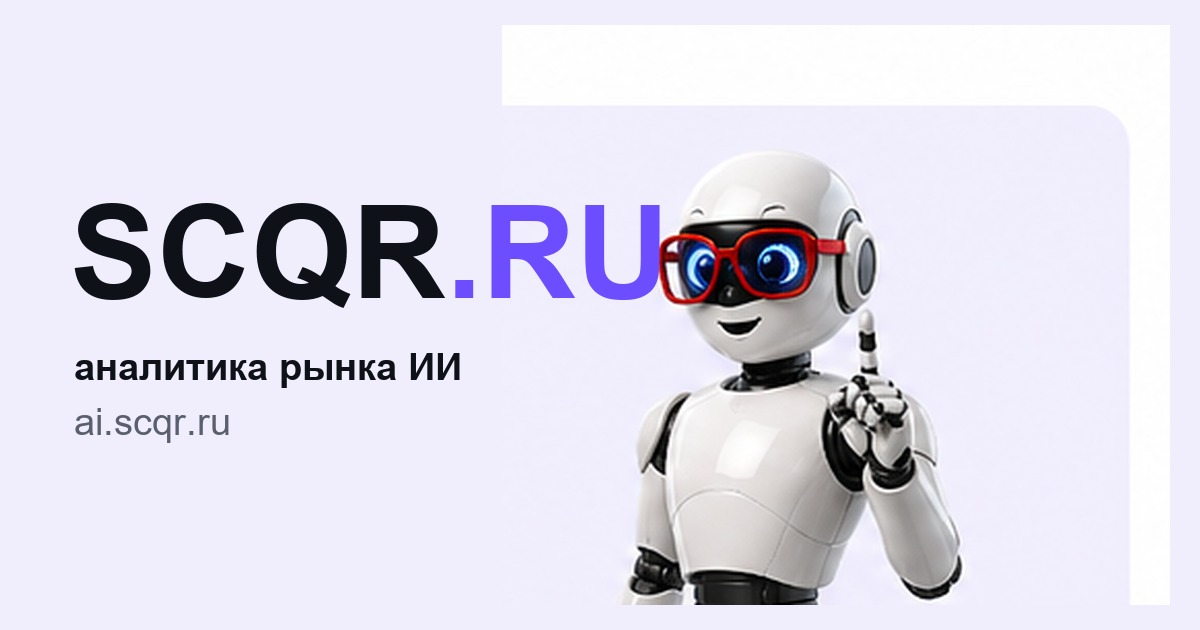
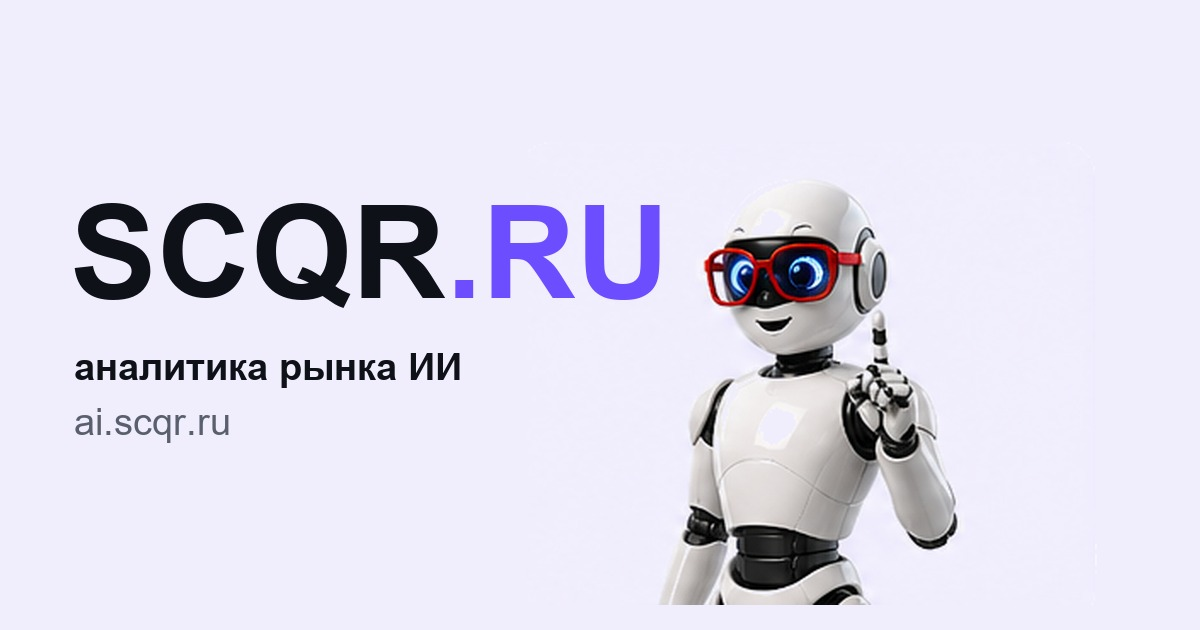
post: heroes, clean Russian, longer TG teaser format
Three changes that landed together because they all flow from
the owner's editorial review on the midday batch:

1. Hero images for both articles. Owner generated them in
   ChatGPT from the visual briefs and dropped the PNGs.
   site/src/assets/editorial/contributed/2026-04-25-midday/
   contains both — Claude Design (lilac, mascot pointing at
   the Claude Design UI) and NVIDIA Hannover (dark, layered
   stack visualization with CUDA-X / Nemotron / DGX Cloud).
   Frontmatter heroSource flipped from "generated" to
   "user-supplied", heroImage path added.

2. Drop anglicisms across both pieces. Owner: «ненужные
   англицизмы не нужны ни в статьях, ни тем более в ТГ».
   Examples: коммодити-сегмент → массовый, тиражный сегмент;
   self-service → самообслуживание; handoff-bundle → пакет
   для передачи; пиксел-пушинг → быстрая шаблонная отрисовка;
   POC → опытный образец; стек → технологическая связка
   (kept as a noun phrase where клarity wins); unit economics
   → прибыльность операции; продакшен → боевой режим. Single
   exception kept: model and product names (Opus 4.7,
   Omniverse, Jetson Thor) — those are proper nouns.

3. New TG-post format. Adds optional `tgTeaser` frontmatter
   field — a paragraph of rhetorical questions that hint at
   what the article answers without spoiling the conclusion.
   tg-post.mjs builds: title + meta + deck + teaser + a
   single neutral link line (Разбираемся: читать на SCQR),
   not the previous "Читать на SCQR →" begging tone.
[…]

Changed region(s): [[0.5242, 0.2413, 0.8017, 0.9651]]

diff --git a/site/src/content.config.ts b/site/src/content.config.ts
@@ -25,6 +25,7 @@ const posts = defineCollection({
 			editorialFlags: z.array(z.string()).default([]),
 			storyCluster: z.string().optional(),
 			sourceNote: z.string().optional(),
+			tgTeaser: z.string().optional(),
 			readingTime: z.number().optional(),
 			publicUrl: z.string().optional(),
 			heroAlt: z.string(),

diff --git a/site/src/content/posts/2026-04-25-nvidia-na-hannover-messe-stek-sobran.md b/site/src/content/posts/2026-04-25-nvidia-na-hannover-messe-stek-sobran.md
@@ -1,8 +1,9 @@
 ---
-title: "NVIDIA на Hannover Messe собрала стек роботов раньше, чем сами роботы"
-description: "На Hannover Messe NVIDIA с партнёрами показала единую архитектуру для физического AI: CUDA-X, Omniverse, Nemotron, Industrial AI Cloud. Демонстрации гуманоидов и автономных ячеек — ещё POC, но стек выглядит готовым раньше, чем продукты на нём."
-deck: "NVIDIA с партнёрами показала на Hannover Messe архитектуру промышленного «физического AI»: Omniverse, CUDA-X, Nemotron под общим зонтиком. На стендах демонстрируют гуманоидов и автономные ячейки. Стек выглядит готовым раньше, чем продукты на нём."
-scqrVerdict: "Стартует не «эпоха роботов», а отрасль разработки физического AI как отдельная категория со своим стеком, поставщиками и капитальной структурой."
+title: "NVIDIA на Hannover Messe собрала технологическую связку для роботов раньше, чем самих роботов"
+description: "На Hannover Messe NVIDIA с партнёрами показала единую архитектуру для физического искусственного интеллекта: CUDA-X, Omniverse, Nemotron, Industrial AI Cloud. Демонстрации гуманоидов и автономных ячеек — пока опытные образцы, но связка готова раньше, чем продукты на ней."
+deck: "NVIDIA с партнёрами показала на Hannover Messe архитектуру промышленного физического искусственного интеллекта: Omniverse, CUDA-X, Nemotron под общим зонтиком. На стендах демонстрируют гуманоидов и автономные ячейки. Связка выглядит готовой раньше, чем продукты на ней."
+scqrVerdict: "Стартует не «эпоха роботов», а отрасль разработки физического искусственного интеллекта как отдельная категория со своей технологической связкой, поставщиками и капитальной структурой."
+tgTeaser: "Станет ли эта презентация шагом к реальному старту глобальной автоматизации, или продукты на новой связке всё ещё опытные образцы и до боевого режима ещё годы? Накопились ли уже предпосылки — или рынок берёт инфраструктуру в долг под обещание?"
 pubDate: "2026-04-25T18:00:00"
 articleType: "analysis"
 stage: "midday-2026-04-25"
@@ -13,19 +14,20 @@ topics: ["NVIDIA", "Hannover Messe", "робототехника", "гумано
 editorialFlags: []
 readingTime: 4
 publicUrl: "/2026-04-25-nvidia-na-hannover-messe-stek-sobran/"
-heroAlt: "Промышленный павильон Hannover Messe: гуманоид у сборочного стенда, на фоне — экран с симуляцией Omniverse."
+heroAlt: "Слоистая визуализация связки NVIDIA: CUDA-X, Nemotron, DGX Cloud — и сцена с роботом-манипулятором поверх в Omniverse."
 heroStyle: "documentary_frame"
-heroSource: "generated"
+heroSource: "user-supplied"
+heroImage: ../../assets/editorial/contributed/2026-04-25-midday/2026-04-25-nvidia-hannover-editorial.png
 ---
 
-В Ганновере 20–24 апреля прошла Messe — главная промышленная выставка Европы. NVIDIA вышла туда не с одним демо, а с полной архитектурной картиной: CUDA-X на компьюте, AI physics для моделирования, Omniverse как симуляционный слой, открытые модели Nemotron сверху. К ней подошли Cadence, Dassault Systèmes, Siemens, Synopsys. Deutsche Telekom запустил «Industrial AI Cloud» — крупнейшую AI-фабрику в Европе на инфраструктуре NVIDIA, открытую для индустриальных клиентов: Agile Robots, SAP, Siemens, PhysicsX, Wandelbots.
+В Ганновере 20–24 апреля прошла Messe — главная промышленная выставка Европы. NVIDIA вышла туда не с одним образцом, а с полной архитектурной картиной: CUDA-X на вычислениях, физический движок для моделирования, Omniverse как симуляционный слой, открытые модели Nemotron сверху. К ней подошли Cadence, Dassault Systèmes, Siemens, Synopsys. Deutsche Telekom запустил Industrial AI Cloud — крупнейшую в Европе фабрику искусственного интеллекта на инфраструктуре NVIDIA, открытую для промышленных клиентов: Agile Robots, SAP, Siemens, PhysicsX, Wandelbots.
 
-Поверх стека — демонстрации того, как агенты управляют физикой. На электронной фабрике Siemens в Эрлангене гуманоид HMND 01 от компании Humanoid выполнил автономную логистическую POC на чипах Jetson Thor. Hexagon Robotics анонсировала систему AEON, которая «должна» (будущее время) выполнять сборку на заводе BMW в Лейпциге. Agile Robots привезла Agile One — гуманоида с продвинутой локомоцией и точной сборкой в микро-фабрике, в Hall 27, стенд J72. Всего около 15 вендоров гуманоидов соревнуются за внимание промышленных закупщиков.
+Поверх этой связки — демонстрации того, как программные агенты управляют физикой. На электронной фабрике Siemens в Эрлангене гуманоид HMND 01 от компании Humanoid выполнил автономную логистическую задачу в режиме опытной проверки на чипах Jetson Thor. Hexagon Robotics показала систему AEON, которая «должна» (будущее время) выполнять сборку на заводе BMW в Лейпциге. Agile Robots привезла Agile One — гуманоида с продвинутым перемещением и точной сборкой в миниатюрной ячейке, в павильоне 27, стенд J72. Всего около пятнадцати производителей гуманоидов борются за внимание промышленных закупщиков.
 
-Развилка, которую NVIDIA фактически показала, выглядит так. Стек для разработки промышленных физических агентов — почти готов. Это не «когда-нибудь»: компонент за компонентом — симуляция, обучение, edge-исполнение, набор открытых моделей — собираются в воспроизводимую цепочку. Deutsche Telekom как партнёр инфраструктуры — сильный сигнал: суверенный европейский AI-фабричный слой строится не «для будущего», а под уже сложившийся спрос.
+Развилка, которую NVIDIA фактически показала, выглядит так. Связка для разработки промышленных физических агентов — почти готова. Это не «когда-нибудь»: компонент за компонентом — моделирование, обучение, исполнение на месте, набор открытых моделей — собираются в воспроизводимую цепочку. Deutsche Telekom как партнёр инфраструктуры — сильный сигнал: суверенный европейский слой фабрик искусственного интеллекта строится не «для будущего», а под уже сложившийся спрос.
 
-Продукты на этом стеке — пока POC. «Proof-of-concept logistics deployment» — это формулировка из релиза NVIDIA про лучший показанный кейс. AEON «expected to perform» — будущее время в пресс-релизе означает, что в продакшен на BMW Лейпциг ещё не вышел. Пятнадцать вендоров гуманоидов означает, что рынок не консолидирован: ни один не доказал unit economics, ни у кого нет очевидно превосходящей модели.
+Продукты на этой связке — пока опытные образцы. «Опытная логистическая поставка» — это формулировка из релиза NVIDIA про лучший показанный кейс. AEON «должна выполнять» в пресс-релизе означает, что в боевом режиме на BMW Лейпциг ещё не работает. Пятнадцать производителей гуманоидов означает, что рынок не сложился: ни один не доказал прибыльность операции, ни у кого нет очевидно превосходящей модели.
 
-Промышленные заказчики начинают коммитить, но осторожно. Siemens прямо говорит: «мы не строим гуманоидов, мы строим инфраструктуру для их разработки и эксплуатации». Это правильный сигнал — фабрики берут на себя интеграцию и пилоты, но оставляют разработку самих машин рынку. BMW и Schaeffler пошли дальше — на сцене с NVIDIA, Hexagon, Microsoft и Agile Robots они обсуждали будущее гуманоидов как отдельное индустриальное направление, а не приложение к существующим линиям.
+Промышленные заказчики начинают подписываться, но осторожно. Siemens прямо говорит: «мы не строим гуманоидов, мы строим инфраструктуру для их разработки и эксплуатации». Это правильный сигнал — фабрики берут на себя сборку решения и пилотные испытания, но оставляют разработку самих машин рынку. BMW и Schaeffler пошли дальше — на сцене с NVIDIA, Hexagon, Microsoft и Agile Robots они обсуждали будущее гуманоидов как отдельное промышленное направление, а не приложение к существующим линиям.
 
-Ответ на вопрос «реальный старт или ещё нет» получается не по середине. Старт есть, но не там, где ждали. Стартует не «эпоха роботов», а отрасль разработки физического AI — как отдельная категория со своим стеком, поставщиками, инфраструктурой и капитальной структурой. Индустриальные роботы массово появятся через несколько лет, потому что POC честно превращается в продакшен медленно. Стек, на котором они будут построены, сложился сейчас — и именно это покупает рынок, расставляя ставки на NVIDIA, Siemens и Deutsche Telekom как на инфраструктурный слой следующей промышленной волны.
+Ответ на вопрос «реальный старт или ещё нет» получается не по середине. Старт есть, но не там, где ждали. Стартует не «эпоха роботов», а отрасль разработки физического искусственного интеллекта — как отдельная категория со своей технологической связкой, поставщиками, инфраструктурой и капитальной структурой. Промышленные роботы массово появятся через несколько лет, потому что опытная сборка честно превращается в боевой режим медленно. Связка, на которой они будут построены, сложилась сейчас — и именно это покупает рынок, расставляя ставки на NVIDIA, Siemens и Deutsche Telekom как на инфраструктурный слой следующей промышленной волны.

diff --git a/site/src/content/posts/2026-04-25-claude-design-szhimaet-rynok-snizu.md b/site/src/content/posts/2026-04-25-claude-design-szhimaet-rynok-snizu.md
@@ -1,33 +1,35 @@
 ---
 title: "Claude Design сжимает дизайн-рынок снизу"
-description: "Anthropic выпустила Claude Design — продукт, в котором Опус 4.7 сам собирает прототипы, презентации и одностраничники. Figma в первый день потеряла 7%, Adobe — 2%. Это не «AI заменил дизайнеров», это рынок переоценивает нижний этаж индустрии."
-deck: "Anthropic выпустила Claude Design — продукт, в котором Опус 4.7 сам собирает прототипы, презентации и одностраничники по разговору. Figma в первый день потеряла 7%, Adobe — 2%. Биржа закладывает не «дизайнеров уволят», а уход коммодити-сегмента в self-service."
+description: "Anthropic выпустила Claude Design — продукт, в котором Opus 4.7 сам собирает наброски сайтов, презентации и одностраничники. Figma в первый день потеряла 7%, Adobe — 2%. Это не «искусственный интеллект заменил дизайнеров», а переоценка нижнего этажа индустрии."
+deck: "Anthropic выпустила Claude Design — Opus 4.7 сам собирает наброски сайтов, презентации и одностраничники по разговору. Figma в первый день потеряла 7%, Adobe — 2%. Биржа закладывает не «дизайнеров уволят», а перевод массовой, тиражной работы в режим самообслуживания."
 scqrVerdict: "Рынок дизайна давно расслоен — Claude Design просто делает этот разлом видимым ценой акций."
+tgTeaser: "Как реагирует индустрия и стоит ли ждать удешевления коммерческого дизайна в ближайшие месяцы? Где пройдёт линия между тиражной шаблонной работой и стратегическим дизайном — и кому из дизайнеров выгоден этот разлом?"
 pubDate: "2026-04-25T17:30:00"
 articleType: "analysis"
 stage: "midday-2026-04-25"
 status: "ready"
 rubrics: ["automations", "tendencies"]
 rubricLabels: ["Автоматизации", "Тенденции"]
-topics: ["Anthropic", "Claude Design", "Figma", "Adobe", "дизайн-рынок", "коммодитизация", "Opus 4.7"]
+topics: ["Anthropic", "Claude Design", "Figma", "Adobe", "дизайн-рынок", "Opus 4.7"]
 editorialFlags: []
 readingTime: 3
 publicUrl: "/2026-04-25-claude-design-szhimaet-rynok-snizu/"
-heroAlt: "Кадр из современного лофт-офиса дизайн-студии: открытые экраны, генеративные шаблоны, остановившийся рабочий процесс."
+heroAlt: "Маскот SCQR указывает на интерфейс Claude Design с собранным наброском посадочной страницы."
 heroStyle: "editorial_still_life"
-heroSource: "generated"
+heroSource: "user-supplied"
+heroImage: ../../assets/editorial/contributed/2026-04-25-midday/2026-04-25-claude-design-editorial.png
 ---
 
-Anthropic 17 апреля представила Claude Design — продукт лаборатории, в котором пользователь рассказывает Опусу 4.7, что нужно, и получает первую версию прототипа, презентации или одностраничника. Дальше можно править текстом, инлайн-комментарием или ползунками. Готовое экспортируется в Canva, PDF, PPTX, HTML и пакуется в «handoff-bundle» для передачи в Claude Code. Доступно подписчикам Pro, Max, Team и Enterprise.
+Anthropic 17 апреля представила Claude Design — продукт лаборатории, в котором пользователь рассказывает Opus 4.7, что нужно, и получает первую версию наброска сайта, презентации или одностраничника. Дальше можно править текстом, комментарием прямо в макете или регуляторами визуальных свойств. Готовое экспортируется в Canva, в PDF, PowerPoint, HTML и собирается в пакет, который передаётся в Claude Code одной командой. Доступно подписчикам Pro, Max, Team и Enterprise.
 
-Важно, как сама Anthropic позиционирует продукт: «не для дизайнеров — для основателей, продактов, маркетологов, людей, у которых есть идея, но нет способа её показать». Эту оговорку стоит прочитать дважды. Anthropic не пытается заменить агентство — она целит в задачи, которые в агентство и не приходили.
+Важно, как сама Anthropic позиционирует продукт: «не для дизайнеров — для основателей, продуктовых менеджеров, маркетологов, людей, у которых есть идея, но нет способа её показать». Эту оговорку стоит прочитать дважды. Anthropic не пытается заменить агентство — она целит в задачи, которые в агентство и не приходили.
 
-Рынок прочитал это иначе. В первый день Figma упала на 7% — с $20.32 до $18.84, в моменте теряя 10% капитализации. Adobe просел на 2%. Канва-related акции пошли вниз вместе с лидерами. Биржа закладывает в цену не «дизайнеров уволят», а более точную вещь: коммодити-сегмент уходит в self-service.
+Рынок прочитал это иначе. В первый день Figma упала на 7% — с 20,32 до 18,84 доллара, в моменте теряя десятую часть капитализации. Adobe просел на 2%. Связанные с Canva акции пошли вниз вместе с лидерами. Биржа закладывает в цену не «дизайнеров уволят», а более точную вещь: массовый, тиражный сегмент уходит в самообслуживание.
 
-Дизайн как индустрия давно расслоен. Сверху — стратегические команды, которые читают культурный момент, понимают, как тон бренда дрейфует, могут сесть напротив клиента и сказать: «То, что вы просите, не то, что вам нужно». Эта работа в логике Claude Design не воспроизводится ни через год, ни через три. Снизу — массовое производство одинаковых лендингов, презентаций и социальных карточек, в которых решают скорость и цена. Это и есть нижний этаж, и его рынок переоценивает первым.
+Дизайн как индустрия давно расслоен. Сверху — стратегические команды, которые читают культурный момент, понимают, как тон бренда дрейфует, могут сесть напротив клиента и сказать: «То, что вы просите, не то, что вам нужно». Эта работа в логике Claude Design не воспроизводится ни через год, ни через три. Снизу — массовое производство одинаковых посадочных страниц, презентаций и социальных карточек, в которых решают скорость и цена. Это и есть нижний этаж, и его рынок переоценивает первым.
 
-Дизайнерское сообщество отреагировало точно по этой линии разлома. Одни — алармично: «дизайнеров не будет». Другие, спокойнее, отмечают, что продукт пока выдаёт стандартизированный визуал — одинаковые засечки, одинаковые акцентные полосы, «крик: я только что использовал один промпт Claude». Это не баг, а определяющая особенность коммодити-режима. Графический дизайнер Молли МакКой формулирует трезво: «В корпоративном дизайне, где много денег и мало гибкости, это просто будет работать».
+Дизайнерское сообщество отреагировало точно по этой линии разлома. Одни — тревожно: «дизайнеров не будет». Другие, спокойнее, отмечают, что продукт пока выдаёт однотипный визуал — одинаковые засечки, одинаковые акцентные полосы, «крик: я только что использовал один запрос к Claude». Это не сбой, а определяющая особенность тиражного режима. Графический дизайнер Молли МакКой формулирует трезво: «В корпоративном дизайне, где много денег и мало гибкости, это просто будет работать».
 
-Что меняется в правилах игры. Меняется бизнес-модель быстрого пиксел-пушинга — дизайнер, продававший «делаю быстро и дёшево», теперь конкурирует с инструментом, у которого предельная себестоимость экспорта стремится к нулю. Не меняются рынки, где платят за стратегию, фирстиль, нарратив и ответственность за бренд. Между этими двумя плоскостями проявляется зазор, который ближайший год будет вытягивать дизайнеров в одну из сторон.
+Что меняется в правилах игры. Меняется коммерческая логика быстрой шаблонной отрисовки — дизайнер, продававший «делаю быстро и дёшево», теперь конкурирует с инструментом, у которого предельная стоимость одного экспорта стремится к нулю. Не меняются рынки, где платят за стратегию, фирменный стиль, рассказ и ответственность за бренд. Между этими двумя плоскостями проявляется зазор, который ближайший год будет вытягивать дизайнеров в одну из сторон.
 
-Эта развилка не нова — рынок переживал её с фотографией, иллюстрацией, копирайтингом. Новое здесь — скорость. Семь процентов Figma за первый день показывают, что инвесторы перестали ждать «когда-нибудь это случится» и начали ждать «уже».
+Эта развилка не нова — рынок переживал её с фотографией, иллюстрацией, литературной редактурой. Новое здесь — скорость. Семь процентов Figma за первый день показывают, что инвесторы перестали ждать «когда-нибудь это случится» и начали ждать «уже».
